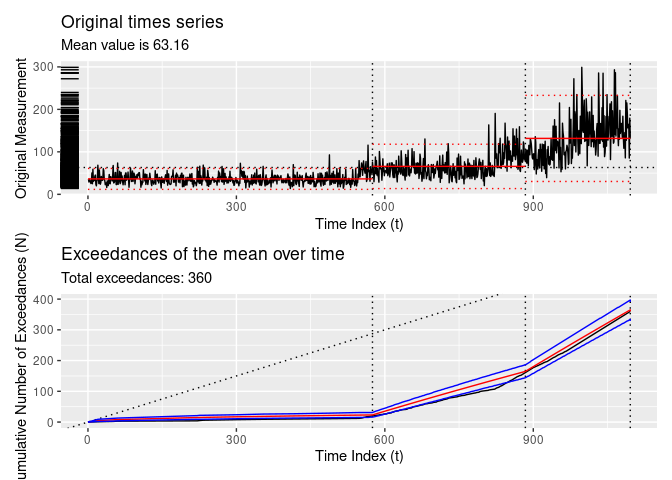
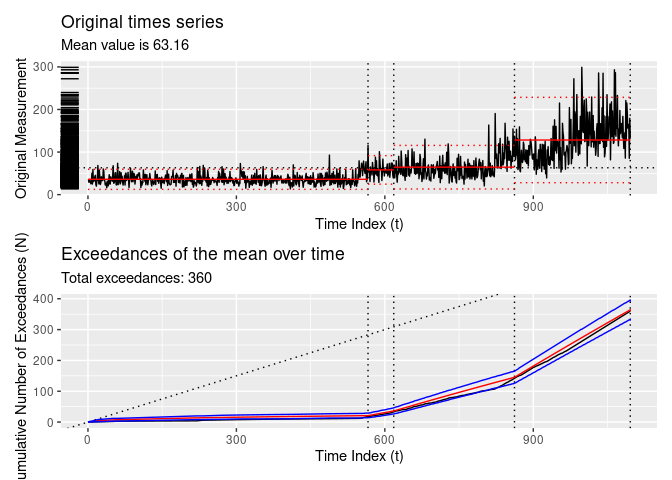
README and version bump

diff --git a/README.md b/README.md
@@ -98,14 +98,13 @@ augment(x)
 tidy(x)
 ```
 
-    ## # A tibble: 4 × 13
-    ##   region   num_obs   min   max  mean    sd exceedances begin   end log_posterior
-    ##   <chr>      <int> <dbl> <dbl> <dbl> <dbl> <named lis> <dbl> <dbl>         <dbl>
-    ## 1 [0,547)      546  13.7  92.8  35.3  11.3 <int [11]>      0   547         -60.1
-    ## 2 [547,82…     275  20.5 163.   58.1  19.3 <int [95]>    547   822        -198. 
-    ## 3 [822,97…     150  39.2 215.   96.7  30.5 <int [129]>   822   972        -150. 
-    ## 4 [972,1.…     125  67.2 299.  156.   49.6 <int [125]>   972  1096        -126. 
-    ## # ℹ 3 more variables: logLik <dbl>, alpha <dbl>, beta <dbl>
+    ## # A tibble: 4 × 6
+    ##   region        num_obs   min   max  mean    sd
+    ##   <fct>           <int> <dbl> <dbl> <dbl> <dbl>
+    ## 1 [0,547)           546  13.7  92.8  35.3  11.3
+    ## 2 [547,822)         275  20.5 163.   58.1  19.3
+    ## 3 [822,972)         150  39.2 215.   96.7  30.5
+    ## 4 [972,1.1e+03]     125  67.2 299.  156.   49.6
 
 - `glance()` returns a `tbl` that provides summary statistics for the
   algorithm.
@@ -114,10 +113,10 @@ tidy(x)
 glance(x)
 ```
 
-    ## # A tibble: 1 × 11
-    ##   pkg     version algorithm params       num_cpts logLik   AIC   BIC  MBIC   MDL
-    ##   <chr>   <pckg_> <chr>     <list>          <int>  <dbl> <dbl> <dbl> <dbl> <dbl>
-    ## 1 change… 2.2.4   PELT      <named list>        3 -4688. 9383. 9403. 9432. 9455.
+    ## # A tibble: 1 × 9
+    ##   pkg         version    algorithm params       num_cpts model  criteria fitness
+    ##   <chr>       <pckg_vrs> <chr>     <list>          <int> <chr>  <chr>      <dbl>
+    ## 1 changepoint 2.2.4      PELT      <named list>        3 fit_m… MBIC        28.0
     ## # ℹ 1 more variable: elapsed_time <drtn>
 
 ### Other methods
@@ -181,28 +180,28 @@ x <- DataCPSim |>
 length(changepoints(x))
 ```
 
-    ## [1] 508
+    ## [1] 527
 
 ``` r
 diagnose(x)
 ```
 
-    ## Warning: Removed 227 rows containing missing values or values outside the scale range
+    ## Warning: Removed 247 rows containing missing values or values outside the scale range
     ## (`geom_segment()`).
-    ## Removed 227 rows containing missing values or values outside the scale range
+    ## Removed 247 rows containing missing values or values outside the scale range
     ## (`geom_segment()`).
 
 ![](README_files/figure-gfm/shi-1.png)<!-- -->
 
-- `method = "gbmdl"`: implements the Genetic BMDL heuristic as per
+- `method = "taimal"`: implements the Genetic BMDL heuristic as per
   Taimal and Sierra-Suarez.
 
 ``` r
 x <- DataCPSim |>
-  segment(method = "gbmdl", num_generations = 5)
+  segment(method = "taimal", num_generations = 5)
 ```
 
-    ## method: gbmdl
+    ## method: taimal
 
     ##   |                                                                    |                                                            |   0%  |                                                                    |===============                                             |  25%  |                                                                    |==============================                              |  50%  |                                                                    |=============================================               |  75%  |                                                                    |============================================================| 100%
 
@@ -210,7 +209,7 @@ x <- DataCPSim |>
 changepoints(x)
 ```
 
-    ## [1] 575 884
+    ## [1] 566 618 862
 
 ``` r
 diagnose(x)
